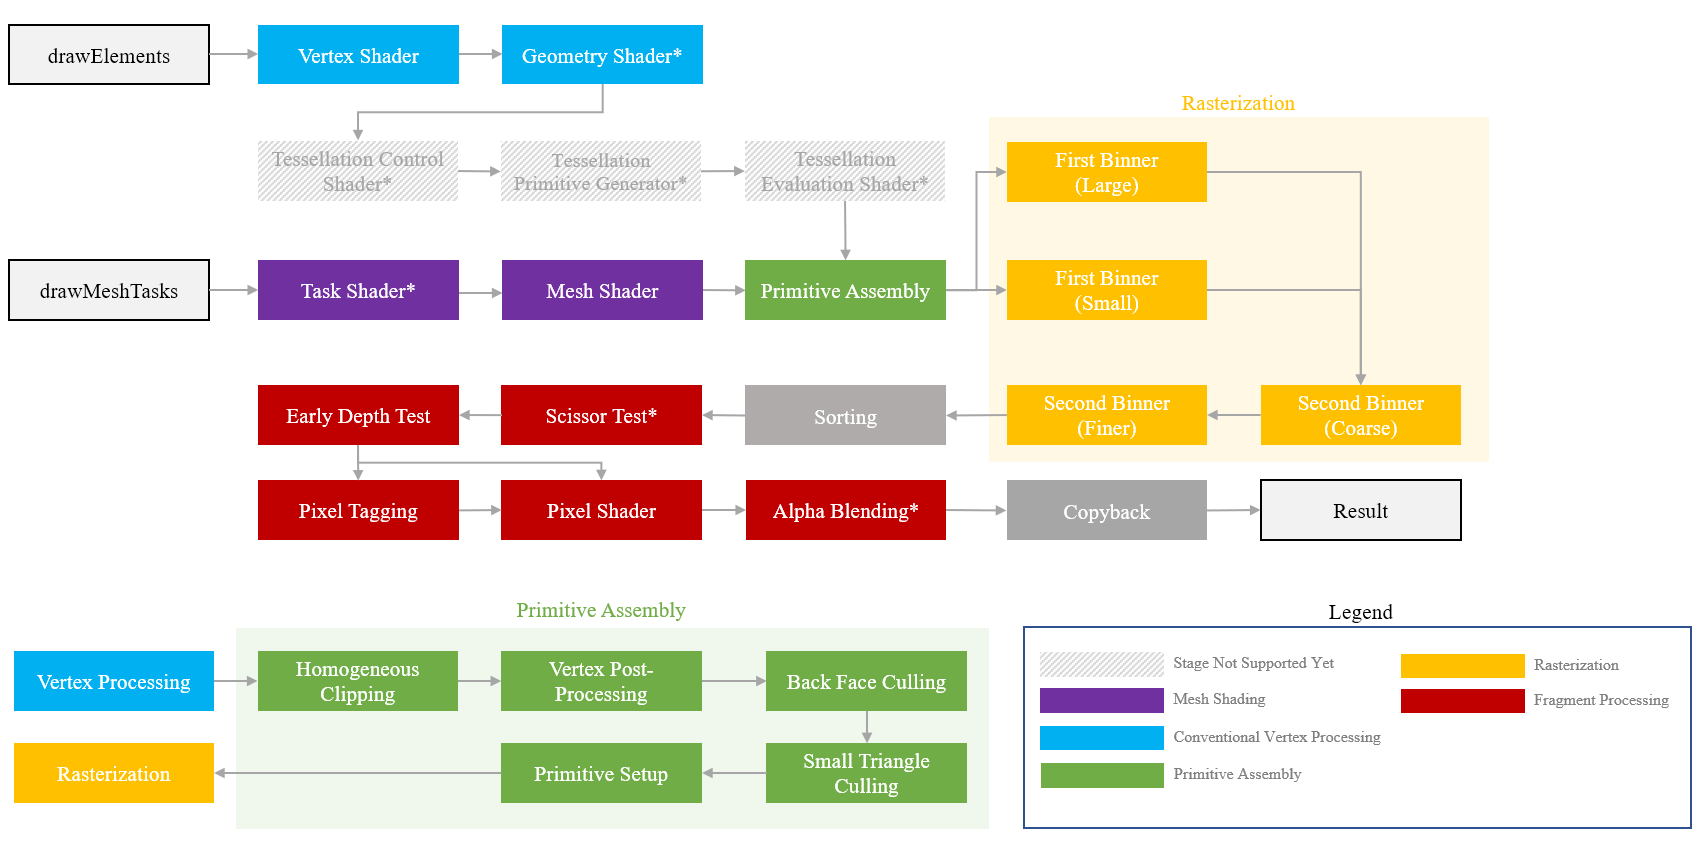
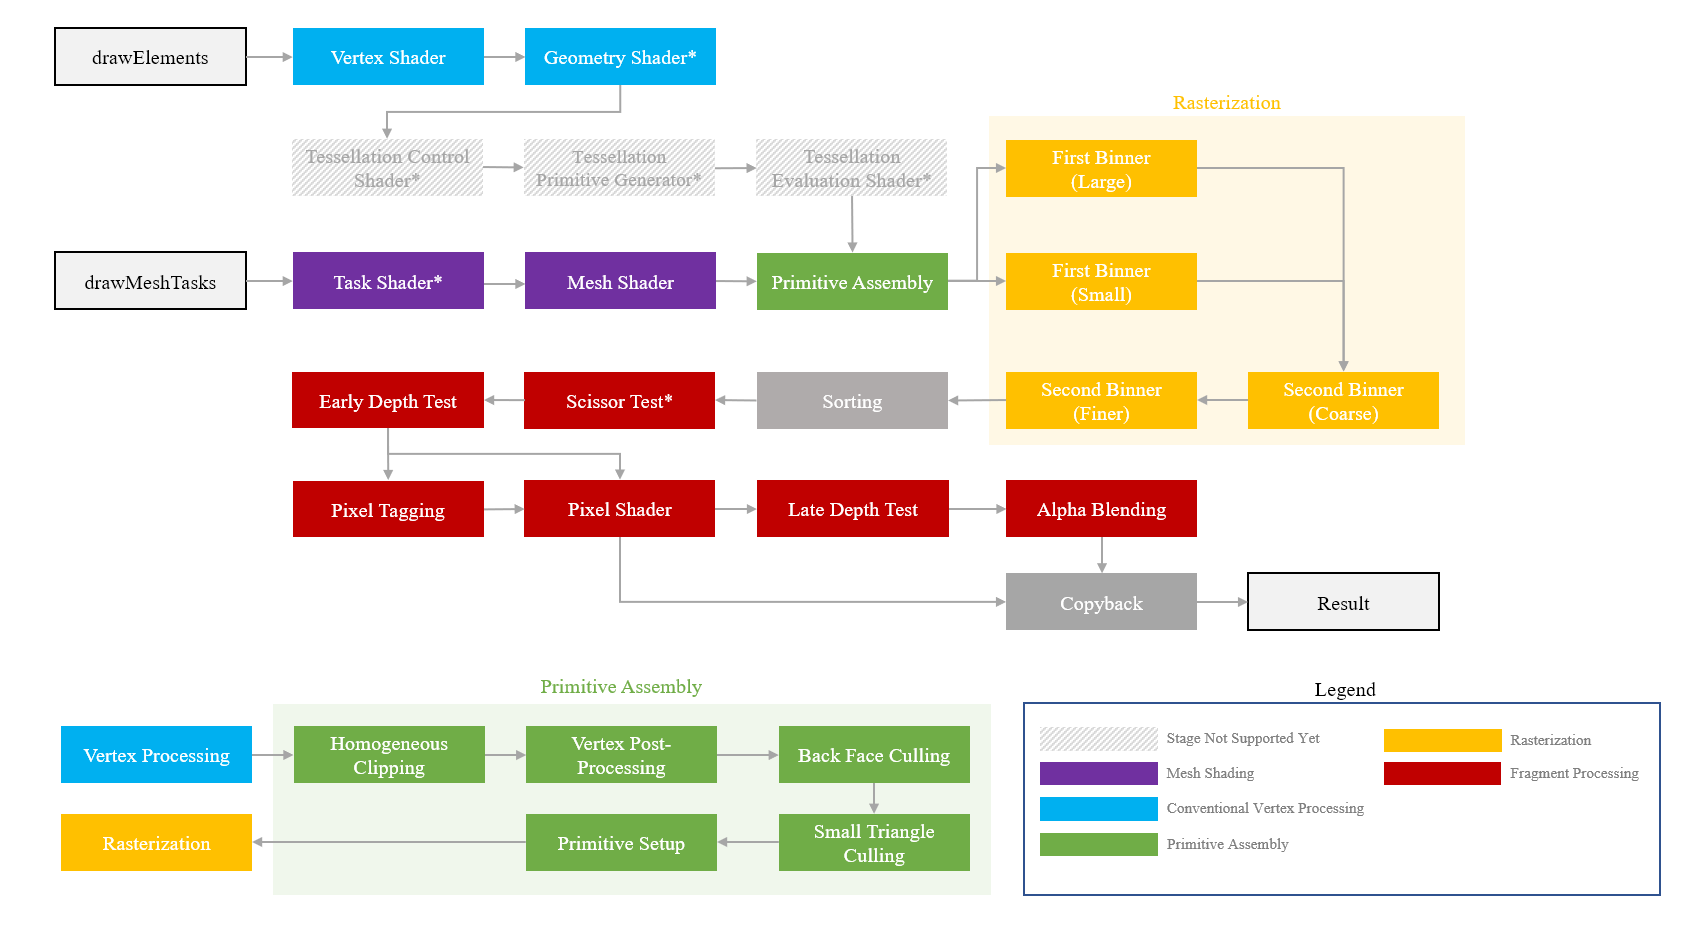
Feature: Depth replacement & Late Z-Test

Changed region(s): [[0.0, 0.0305, 1.0, 0.9765], [0.7812, 0.2746, 0.8125, 0.3052], [0.7812, 0.1831, 0.8125, 0.2136]]

diff --git a/demo/MeshletDemo.cpp b/demo/MeshletDemo.cpp
@@ -16,7 +16,7 @@
 #include "shader/MeshletDemoShaders.cuh"
 
 
-#define DEMO_RESOLUTION 1536
+#define DEMO_RESOLUTION 1800
 namespace Ifrit::Demo::MeshletDemo {
     using namespace std;
     using namespace Ifrit::Core::Data;
@@ -49,7 +49,7 @@ namespace Ifrit::Demo::MeshletDemo {
 
     class MeshletDemoFS : public FragmentShader {
 	public:
-		IFRIT_DUAL virtual void execute(const void* varyings, void* colorOutput) override {
+		IFRIT_DUAL virtual void execute(const void* varyings, void* colorOutput, float& fragmentDepth) override {
 			ifloat4 result = ((const VaryingStore*)varyings)[0].vf4;
 			constexpr float fw = 0.5;
             constexpr float ds = 1.0;
@@ -129,6 +129,7 @@ namespace Ifrit::Demo::MeshletDemo {
 		MeshletDemoCuMS meshShader;
 		MeshletDemoCuTS taskShader;
 		MeshletDemoCuFS fragmentShader;
+		fragmentShader.allowDepthModification = false;
 		auto dMeshShader = meshShader.getCudaClone();
 		auto dTaskShader = taskShader.getCudaClone();
 		auto dFragmentShader = fragmentShader.getCudaClone();
@@ -136,13 +137,13 @@ namespace Ifrit::Demo::MeshletDemo {
 		renderer->bindFragmentShader(dFragmentShader);
 		renderer->bindMeshShader(dMeshShader, vertexShaderLayout, { 1,1,1 });
 		renderer->bindTaskShader(dTaskShader, vertexShaderLayout);
-		renderer->setClearValues({ {1,0,0,0} }, 255.0);
+		renderer->setClearValues({ {1,1,1,1} }, 255.0);
 
 		renderer->setScissors({
 			{0,0,DEMO_RESOLUTION / 2,DEMO_RESOLUTION / 2},
 			{DEMO_RESOLUTION / 2,DEMO_RESOLUTION / 2,DEMO_RESOLUTION,DEMO_RESOLUTION}
 			});
-		renderer->setScissorTestEnable(true);
+		renderer->setScissorTestEnable(false);
 
 		auto windowBuilder = std::make_unique<AdaptiveWindowBuilder>();
 		auto windowProvider = windowBuilder->buildUniqueWindowProvider();

diff --git a/src/engine/tilerastercuda/TileRasterRendererCuda.cpp b/src/engine/tilerastercuda/TileRasterRendererCuda.cpp
@@ -12,6 +12,8 @@ namespace Ifrit::Engine::TileRaster::CUDA {
 		deviceContext->dDeviceConstants = (TileRasterDeviceConstants*)Invocation::deviceMalloc(sizeof(TileRasterDeviceConstants));
 		Invocation::initCudaRendering();
 		context->geometryShader = nullptr;
+		context->blendState.blendEnable = false;
+		Invocation::setBlendFunc(context->blendState);
 		Invocation::updateScissorTestData(context->scissorAreas.data(), context->scissorAreas.size(), context->scissorTestEnable);
 	}
 	void TileRasterRendererCuda::bindFrameBuffer(FrameBuffer& frameBuffer, bool useDoubleBuffer) {
@@ -77,6 +79,7 @@ namespace Ifrit::Engine::TileRaster::CUDA {
 	void TileRasterRendererCuda::bindFragmentShader(FragmentShader* fragmentShader) {
 		context->fragmentShader = fragmentShader;
 		needFragmentShaderUpdate = true;
+		Invocation::setBlendFunc(context->blendState);
 	}
 	void TileRasterRendererCuda::bindGeometryShader(GeometryShader* geometryShader) {
 		context->geometryShader = geometryShader;
@@ -107,6 +110,7 @@ namespace Ifrit::Engine::TileRaster::CUDA {
 		this->polygonMode = mode;
 	}
 	void TileRasterRendererCuda::setBlendFunc(IfritColorAttachmentBlendState state) {
+		context->blendState = state;
 		Invocation::setBlendFunc(state);
 	}
 	void TileRasterRendererCuda::setDepthFunc(IfritCompareOp depthFunc) {

diff --git a/src/engine/tileraster/TileRasterWorker.cpp b/src/engine/tileraster/TileRasterWorker.cpp
@@ -920,7 +920,7 @@ namespace Ifrit::Engine::TileRaster {
 			}
 		}
 		// Fragment Shader
-		context->fragmentShader->execute(interpolatedVaryings.data(), colorOutput.data());
+		context->fragmentShader->execute(interpolatedVaryings.data(), colorOutput.data(), interpolatedDepth);
 
 		if constexpr (tpAlphaBlendEnable) {
 			auto dstRgba = args.colorAttachment0->getPixelRGBAUnsafe(dx, dy);
@@ -1068,7 +1068,7 @@ namespace Ifrit::Engine::TileRaster {
 			}
 
 			// Fragment Shader
-			context->fragmentShader->execute(interpolatedVaryings.data(), colorOutput.data());
+			context->fragmentShader->execute(interpolatedVaryings.data(), colorOutput.data(), interpolatedDepth[i]);
 			if constexpr(tpAlphaBlendEnable) {
 				auto dstRgba = args.colorAttachment0->getPixelRGBAUnsafe(x, y);
 				auto srcRgba = colorOutput[0];
@@ -1210,7 +1210,7 @@ namespace Ifrit::Engine::TileRaster {
 			}
 
 			// Fragment Shader
-			context->fragmentShader->execute(interpolatedVaryings.data(), colorOutput.data());
+			context->fragmentShader->execute(interpolatedVaryings.data(), colorOutput.data(), interpolatedDepth[i]);
 			if constexpr (tpAlphaBlendEnable) {
 				auto dstRgba = args.colorAttachment0->getPixelRGBAUnsafe(x, y);
 				auto srcRgba = colorOutput[0];

diff --git a/demo/DefaultDemo.cpp b/demo/DefaultDemo.cpp
@@ -70,8 +70,9 @@ namespace Ifrit::Demo::DemoDefault {
 
 	class DemoFragmentShader : public FragmentShader {
 	public:
-		IFRIT_DUAL virtual void execute(const void* varyings, void* colorOutput) override {
+		IFRIT_DUAL virtual void execute(const void* varyings, void* colorOutput, float& fragmentDepth) override {
 			ifloat4 result = ((const VaryingStore*)varyings)[0].vf4;
+
 			constexpr float fw = 0.5;
 			result.x = fw * result.x + fw;
 			result.y = fw * result.y + fw;
@@ -289,6 +290,7 @@ namespace Ifrit::Demo::DemoDefault {
 		VaryingDescriptor vertexShaderLayout;
 		vertexShaderLayout.setVaryingDescriptors({ TypeDescriptors.FLOAT4,TypeDescriptors.FLOAT4 });
 		DemoFragmentShaderCuda fragmentShader;
+		fragmentShader.allowDepthModification = true;
 		DemoGeometryShaderCuda geometryShader;
 
 		auto dVertexShader = vertexShader.getCudaClone();

diff --git a/include/engine/base/Shaders.h b/include/engine/base/Shaders.h
@@ -31,10 +31,11 @@ namespace Ifrit::Engine {
 
 	class FragmentShader :public ShaderBase {
 	public:
-		
+		bool allowDepthModification = false;
 		IFRIT_DUAL virtual void execute(
 			const void* varyings, 
-			void* colorOutput
+			void* colorOutput,
+			float& fragmentDepth
 		) = 0;
 		IFRIT_HOST virtual FragmentShader* getCudaClone() { return nullptr; };
 	};

diff --git a/include/engine/tilerastercuda/TileRasterContextCuda.h b/include/engine/tilerastercuda/TileRasterContextCuda.h
@@ -39,6 +39,9 @@ namespace Ifrit::Engine::TileRaster::CUDA {
 		bool scissorTestEnable = false;
 		std::vector<ifloat4> scissorAreas;
 
+		// == blend state ==
+		IfritColorAttachmentBlendState blendState;
+
 		// Constants
 		int vertexStride = 3;
 		int tileBlocksX = 64;

diff --git a/IfritMain.cpp b/IfritMain.cpp
@@ -30,6 +30,6 @@ int demoMeshlet(){
 }
 
 int main() {
-	demoMeshlet();
+	demoDefault();
 	return 0;
 }

diff --git a/README.md b/README.md
@@ -34,48 +34,49 @@ Overall framework for CUDA solid triangle renderer pipeline (Some are different 
 
 **Note:** This project is NOT an exact replicate of hardware graphics pipeline (like IMR or TBDR architecture). 
 
-| Feature                           | [Iris Renderer](https://github.com/Aeroraven/Stargazer/tree/main/ComputerGraphics/Iris) | MT CPU Renderer | CUDA Renderer |
-| --------------------------------- | ------------------------------------------------------------ | --------------- | ------------- |
-| **Basic**                         |                                                              |                 |               |
-| Rendering Order                   | √                                                            | √               | √ (3)         |
-| **Performance**                   |                                                              |                 |               |
-| SIMD Instructions / SIMT          |                                                              | √               | √             |
-| Overlapped Memory Transfer        |                                                              |                 | √             |
-| Dynamic Tile List                 |                                                              | √               | √             |
-| **Pipeline**                      |                                                              |                 |               |
-| Programmable Vertex Shader        | √                                                            | √               | √             |
-| Programmable Fragment Shader      | √                                                            | √               | √             |
-| Programmable Geometry Shader      |                                                              |                 | ▲             |
-| Programmable Mesh Shader          |                                                              |                 | ▲             |
-| Programmable Task Shader          |                                                              |                 | ▲             |
-| Alpha Blending                    |                                                              | √               | √             |
-| Depth Testing                     | √                                                            | √               | √             |
-| Depth Function                    |                                                              | √               | √             |
-| Z Pre-Pass                        |                                                              |                 | √             |
-| Early-Z Test                      | √                                                            | √               | √             |
-| Scissor Test                      |                                                              |                 | √             |
-| Back Face Culling                 | √                                                            | √               | √             |
-| Frustum Culling                   |                                                              | √               | √             |
-| Homogeneous Clipping              |                                                              | √ (1)           | √ (1)         |
-| Small Triangle Culling            |                                                              |                 | √             |
-| Perspective-correct Interpolation |                                                              | √               | √             |
-| Shader Derivatives `dFdx` `dFdy`  |                                                              |                 | ▲ (2)         |
-| **Polygon Mode**                  |                                                              |                 |               |
-| Filled Triangle                   | √                                                            | √               | √             |
-| Line (Wireframe)                  |                                                              |                 | ▲             |
-| Point                             |                                                              |                 | ▲             |
-| **Texture**                       |                                                              |                 |               |
-| Basic Support (Sampler)           |                                                              |                 | √             |
-| Blit                              |                                                              |                 | √             |
-| Mipmap                            |                                                              |                 | √             |
-| Filter                            |                                                              |                 | √             |
-| Sampler Address Mode              |                                                              |                 | √             |
-| LOD Bias                          |                                                              |                 | √             |
-| Anisotropic Filtering             |                                                              |                 | ▲ (4)         |
-| Cube Map                          |                                                              |                 | √             |
-| **Presentation**                  |                                                              |                 |               |
-| Terminal ASCII                    |                                                              | √               | √             |
-| Terminal Color                    |                                                              | √               | √             |
+| Feature                                     | [Iris Renderer](https://github.com/Aeroraven/Stargazer/tree/main/ComputerGraphics/Iris) | MT CPU Renderer | CUDA Renderer |
+| ------------------------------------------- | ------------------------------------------------------------ | --------------- | ------------- |
+| **Basic**                                   |                                                              |                 |               |
+| Rendering Order                             | √                                                            | √               | √ (3)         |
+| **Performance**                             |                                                              |                 |               |
+| SIMD Instructions / SIMT                    |                                                              | √               | √             |
+| Overlapped Memory Transfer                  |                                                              |                 | √             |
+| Dynamic Tile List                           |                                                              | √               | √             |
+| **Pipeline**                                |                                                              |                 |               |
+| Programmable Vertex Shader                  | √                                                            | √               | √             |
+| Programmable Fragment Shader                | √                                                            | √               | √             |
+| Programmable Geometry Shader                |                                                              |                 | ▲             |
+| Programmable Mesh Shader                    |                                                              |                 | ▲             |
+| Programmable Task Shader                    |                                                              |                 | ▲             |
+| Alpha Blending                              |                                                              | √               | √             |
+| Depth Testing                               | √                                                            | √               | √             |
+| Depth Function                              |                                                              | √               | √             |
+| Z Pre-Pass                                  |                                                              |                 | √             |
+| Early-Z Test                                | √                                                            | √               | √             |
+| Late-Z Test (Depth Replacement & `discard`) |                                                              |                 | √             |
+| Scissor Test                                |                                                              |                 | √             |
+| Back Face Culling                           | √                                                            | √               | √             |
+| Frustum Culling                             |                                                              | √               | √             |
+| Homogeneous Clipping                        |                                                              | √ (1)           | √ (1)         |
+| Small Triangle Culling                      |                                                              |                 | √             |
+| Perspective-correct Interpolation           |                                                              | √               | √             |
+| Shader Derivatives `dFdx` `dFdy`            |                                                              |                 | ▲ (2)         |
+| **Polygon Mode**                            |                                                              |                 |               |
+| Filled Triangle                             | √                                                            | √               | √             |
+| Line (Wireframe)                            |                                                              |                 | ▲             |
+| Point                                       |                                                              |                 | ▲             |
+| **Texture**                                 |                                                              |                 |               |
+| Basic Support (Sampler)                     |                                                              |                 | √             |
+| Blit                                        |                                                              |                 | √             |
+| Mipmap                                      |                                                              |                 | √             |
+| Filter                                      |                                                              |                 | √             |
+| Sampler Address Mode                        |                                                              |                 | √             |
+| LOD Bias                                    |                                                              |                 | √             |
+| Anisotropic Filtering                       |                                                              |                 | ▲ (4)         |
+| Cube Map                                    |                                                              |                 | √             |
+| **Presentation**                            |                                                              |                 |               |
+| Terminal ASCII                              |                                                              | √               | √             |
+| Terminal Color                              |                                                              | √               | √             |
 
 (1) For performance consideration, only w-axis is considered 
 
